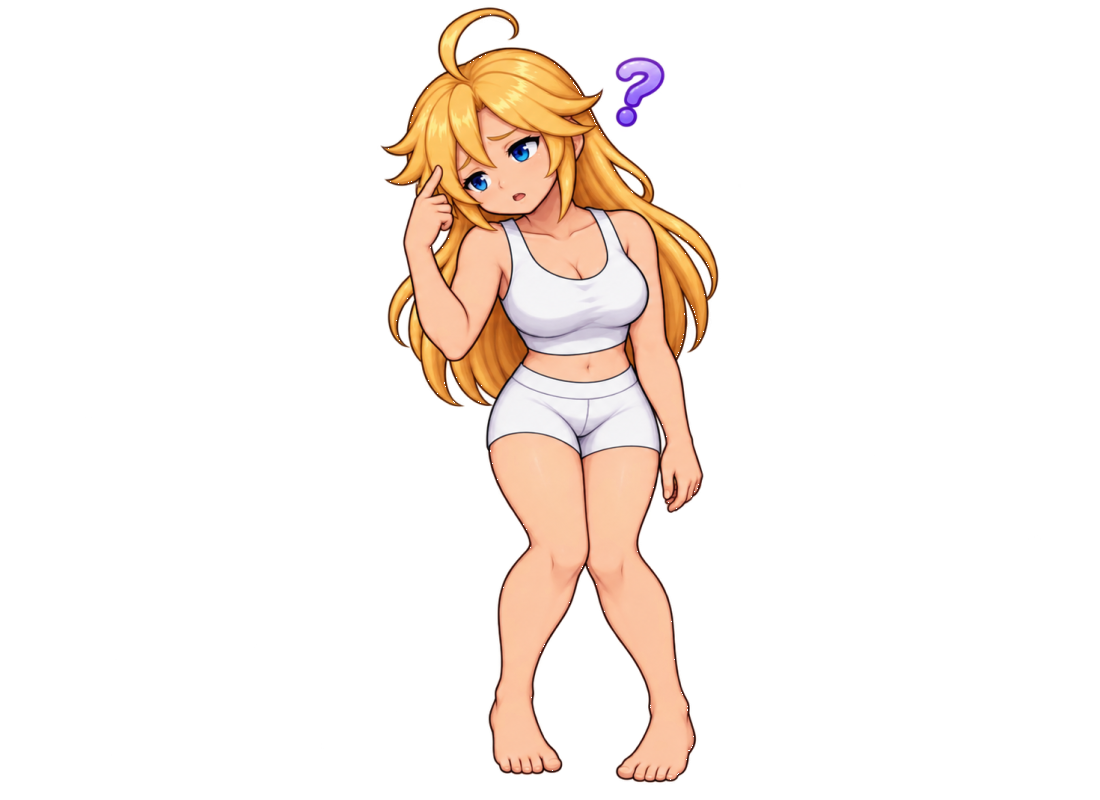
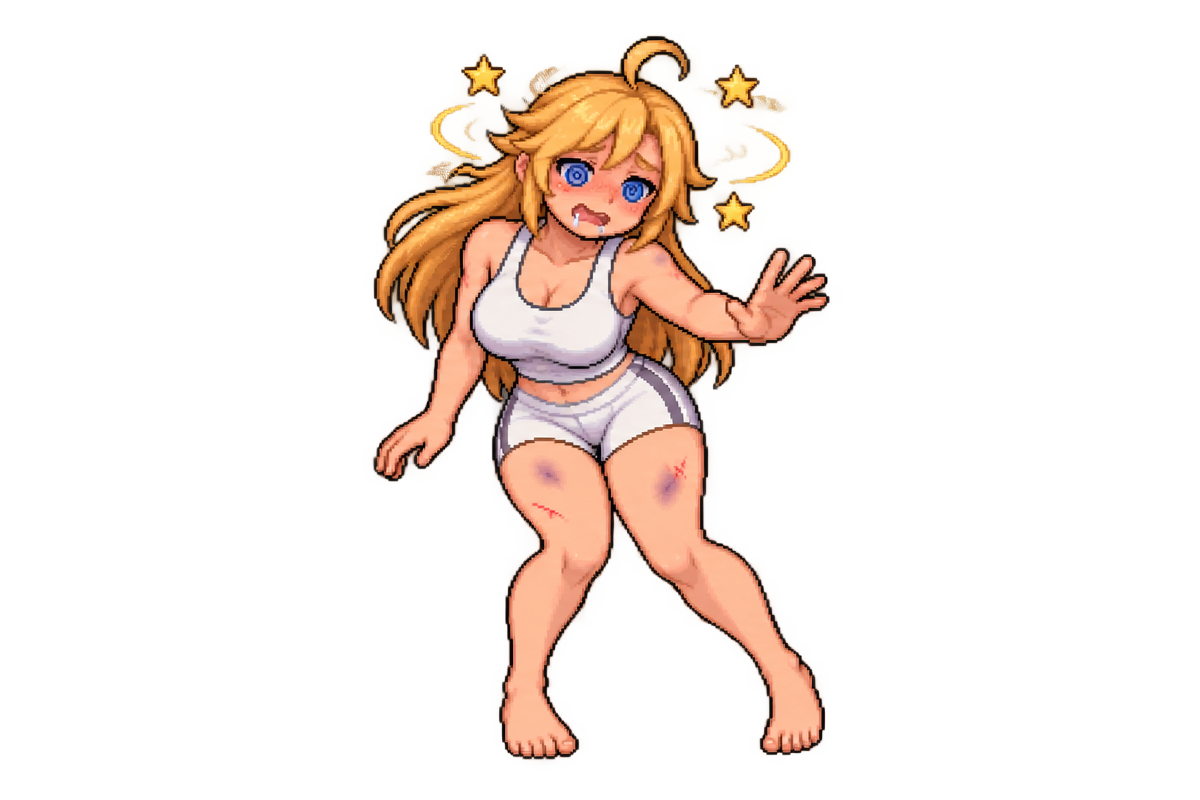
Fix level down portrait to show sad reaction and replace confused portrait with true dizzy art

Changed region(s): [[0.3091, 0.0, 0.7109, 1.0]]

diff --git a/tests/portraits.test.js b/tests/portraits.test.js
@@ -649,7 +649,7 @@ describe("portraits", () => {
       newMsgs: ["混乱の罠が発動！", "頭がくらくらする！(混乱10ターン)"],
       lastMsg: "",
     });
-    expect(confused.src).toMatch(/reaction_confused/);
+    expect(confused.src).toMatch(/status_confused/);
     expect(confused.holdKey).toBe("status_confused");
   });
 
@@ -659,7 +659,7 @@ describe("portraits", () => {
       armor: { id: "armor" }, confusedTurns: 8,
     };
     const event = resolvePortraitEvent({ player, prev: null, lastMsg: "" });
-    expect(event.src).toMatch(/reaction_confused/);
+    expect(event.src).toMatch(/status_confused/);
     expect(event.holdKey).toBe("status_confused");
   });
 
@@ -838,7 +838,35 @@ describe("portraits", () => {
     expect(event.src).toMatch(/hp_hunger/);
   });
 
+
+  it("レベルダウン時は喜ぶ立ち絵ではなく落胆（reaction_sad）を表示する", () => {
+    const base = {
+      hp: 80, maxHp: 100, x: 5, y: 5, level: 19,
+      armor: { id: "armor" },
+    };
+    // 罠によるレベルダウン
+    const trapEvent = resolvePortraitEvent({
+      player: { ...base, level: 18 },
+      prev: base,
+      newMsgs: ["レベルダウンの罠が発動！", "レベルが1下がった！Lv.18！"],
+      lastMsg: "レベルが1下がった！Lv.18！",
+    });
+    expect(trapEvent.src).toMatch(/reaction_sad/);
+    expect(trapEvent.force).toBe(true);
+
+    // ドレイン等のメッセージによるレベルダウン
+    const drainEvent = resolvePortraitEvent({
+      player: { ...base, level: 18 },
+      prev: base,
+      newMsgs: ["レベルが1下がった！Lv.18！"],
+      lastMsg: "レベルが1下がった！Lv.18！",
+    });
+    expect(drainEvent.src).toMatch(/reaction_sad/);
+    expect(drainEvent.force).toBe(true);
+  });
+
   it("空腹・錆・回転板の罠は状況に合う立ち絵へ対応する", () => {
+    expect(getTrapPortraitKey("レベルダウンの罠が発動！")).toBe("reaction_sad");
     expect(getTrapPortraitKey("空腹の罠が発動！急に空腹を感じた！満腹度が10%下がった。")).toBe("hp_hunger");
     expect(getTrapPortraitKey("錆の罠が発動！剣が錆びた！")).toBe("reaction_trap_rust");
     expect(getTrapPortraitKey("回転板が発動！吹き飛ばされた！")).toBe("reaction_trap_spin");

diff --git a/portraitCatalog.js b/portraitCatalog.js
@@ -92,6 +92,7 @@ const BASE_PORTRAIT_CATEGORIES = [
     group: null,
     slots: [
       { file: "status_poison", label: "毒", group: "status_poison" },
+      { file: "status_confused", label: "混乱", group: "status_confused" },
       { file: "status_sleep", label: "睡眠", group: "status_sleep" },
       { file: "status_cursed", label: "呪い", group: "status_cursed" },
 
@@ -125,8 +126,8 @@ const BASE_PORTRAIT_CATEGORIES = [
       { file: "reaction_motivated", label: "やる気", group: "levelup" },
       { file: "reaction_joy", label: "喜び", group: "levelup" },
       { file: "reaction_surprised", label: "驚き", group: "reaction_surprised" },
-      { file: "reaction_surprised_joy", label: "驚き（喜び）", group: "reaction_surprised" },
-      { file: "reaction_confused", label: "困惑・混乱", group: "status_confused" },
+      { file: "reaction_surprised_joy", label: "驚き（喜び）", group: "levelup" },
+      { file: "reaction_confused", label: "困惑", group: "reaction_confused" },
       { file: "reaction_sad", label: "悲しみ", group: "reaction_sad" },
       { file: "reaction_fall_ground", label: "転倒", group: "reaction_fall" },
       { file: "reaction_stairs", label: "階段・フロア移動", group: "reaction_stairs" },

diff --git a/portraits.js b/portraits.js
@@ -361,6 +361,7 @@ export function isSummonTrapMsg(msg) {
 }
 
 const TRAP_PORTRAIT_RULES = [
+  [/レベルダウンの罠/, "reaction_sad"],
   [/毒矢の罠/, "reaction_trap_poison_arrow"],
   [/強矢の罠/, "reaction_trap_strong_arrow"],
   [/MP吸収の罠/, "reaction_trap_mp_absorb"],
@@ -384,7 +385,7 @@ const TRAP_PORTRAIT_RULES = [
 ];
 
 const TRAP_NAMES_WITHOUT_DEDICATED_PORTRAIT =
-  /(?:睡眠ガス|鈍足|混乱|暗闇|油まみれ|浮遊|封印|影ぬい|惑わし|道具魔物化|加速|装備外し|レベルダウン)の罠|罠の罠/;
+  /(?:睡眠ガス|鈍足|混乱|暗闇|油まみれ|浮遊|封印|影ぬい|惑わし|道具魔物化|加速|装備外し)の罠|罠の罠/;
 
 /** 罠が実際に作動したログから、発動時に出すリアクションを返す。 */
 export function getTrapPortraitKey(msg) {
@@ -662,6 +663,10 @@ export function resolvePortraitEvent({ player: p, prev, lastMsg, recentMsgs = []
 
   if (p.level > prev.level) {
     return pe("levelup");
+  }
+
+  if (p.level < prev.level || findMsgInNew(newMsgs, eventLastMsg, (m) => /レベルが\d+下がった/.test(m))) {
+    return pe("reaction_sad", { force: true });
   }
 
   if (findMsgInNew(newMsgs, eventLastMsg, isStairsMsg)) {

diff --git a/tests/portraitCatalog.test.js b/tests/portraitCatalog.test.js
@@ -45,7 +45,11 @@ describe("portraitCatalog", () => {
     expect(sets.status_soaked).toEqual(["status_soaked"]);
     expect(sets.status_floating).toEqual(["status_floating"]);
     expect(sets.status_floating_unarmored).toEqual(["status_floating_unarmored"]);
-    expect(sets.status_confused).toEqual(["reaction_confused"]);
+    expect(sets.status_confused).toEqual(["status_confused"]);
+    expect(sets.reaction_confused).toEqual(["reaction_confused"]);
+    expect(sets.reaction_confused_unarmored).toEqual(["reaction_confused_unarmored"]);
+    expect(sets.levelup).toContain("reaction_surprised_joy");
+    expect(sets.reaction_surprised).not.toContain("reaction_surprised_joy");
     expect(sets.status_confused_unarmored).toEqual(["status_confused_unarmored"]);
     expect(sets.status_bound).toEqual(["status_bound"]);
     expect(sets.status_confined).toEqual(["status_confined"]);
